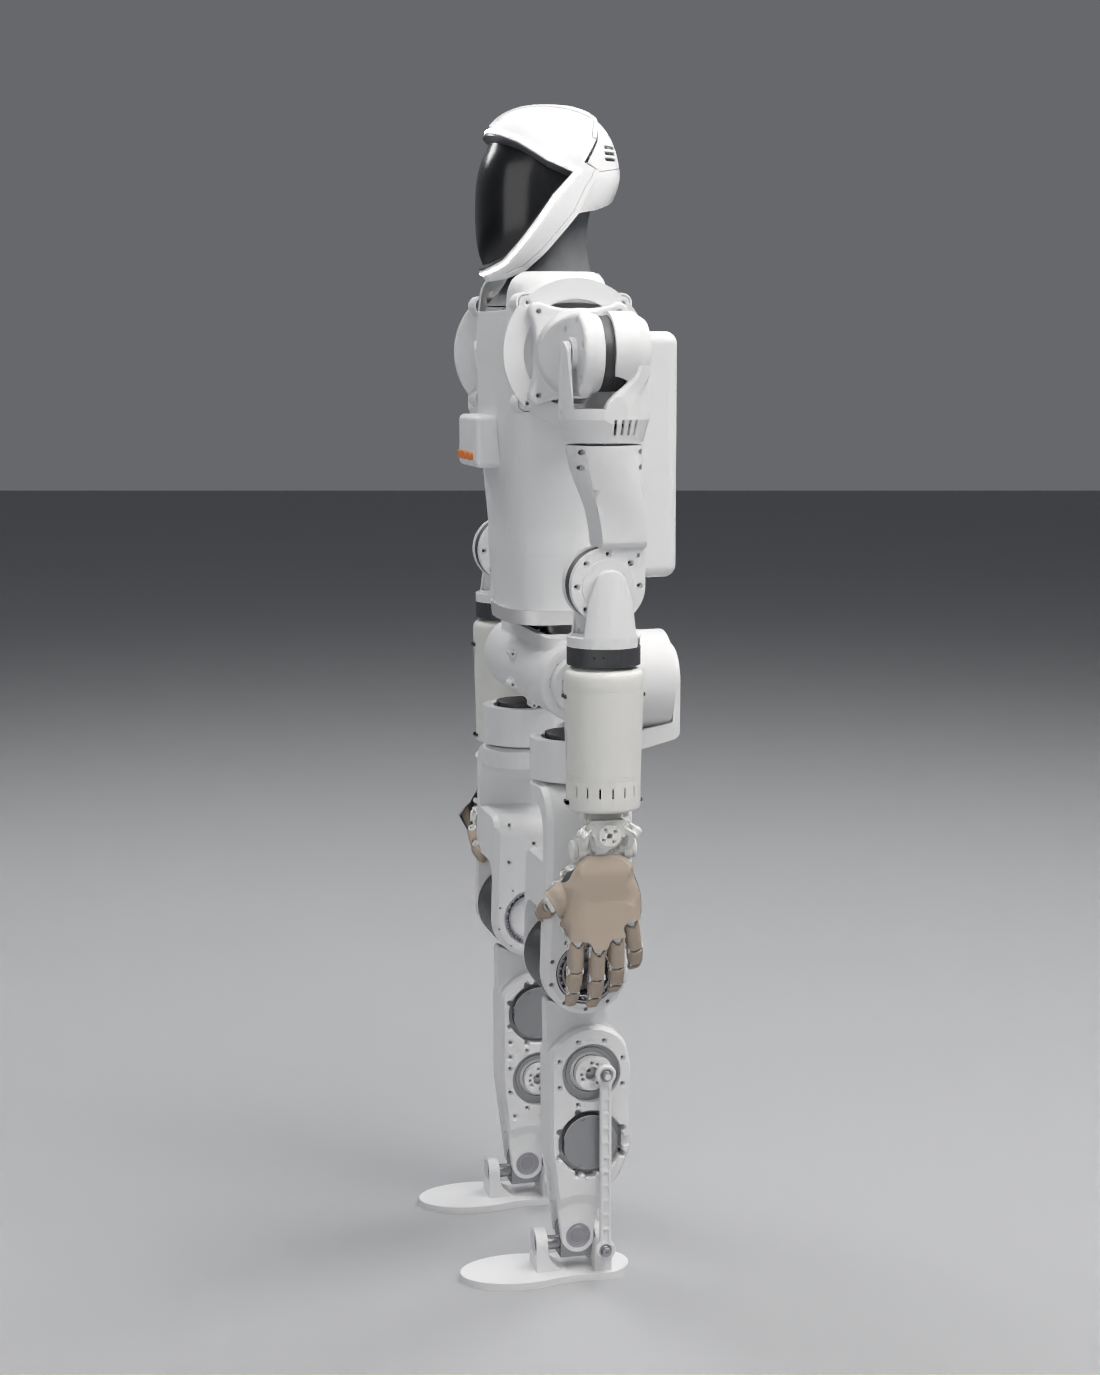
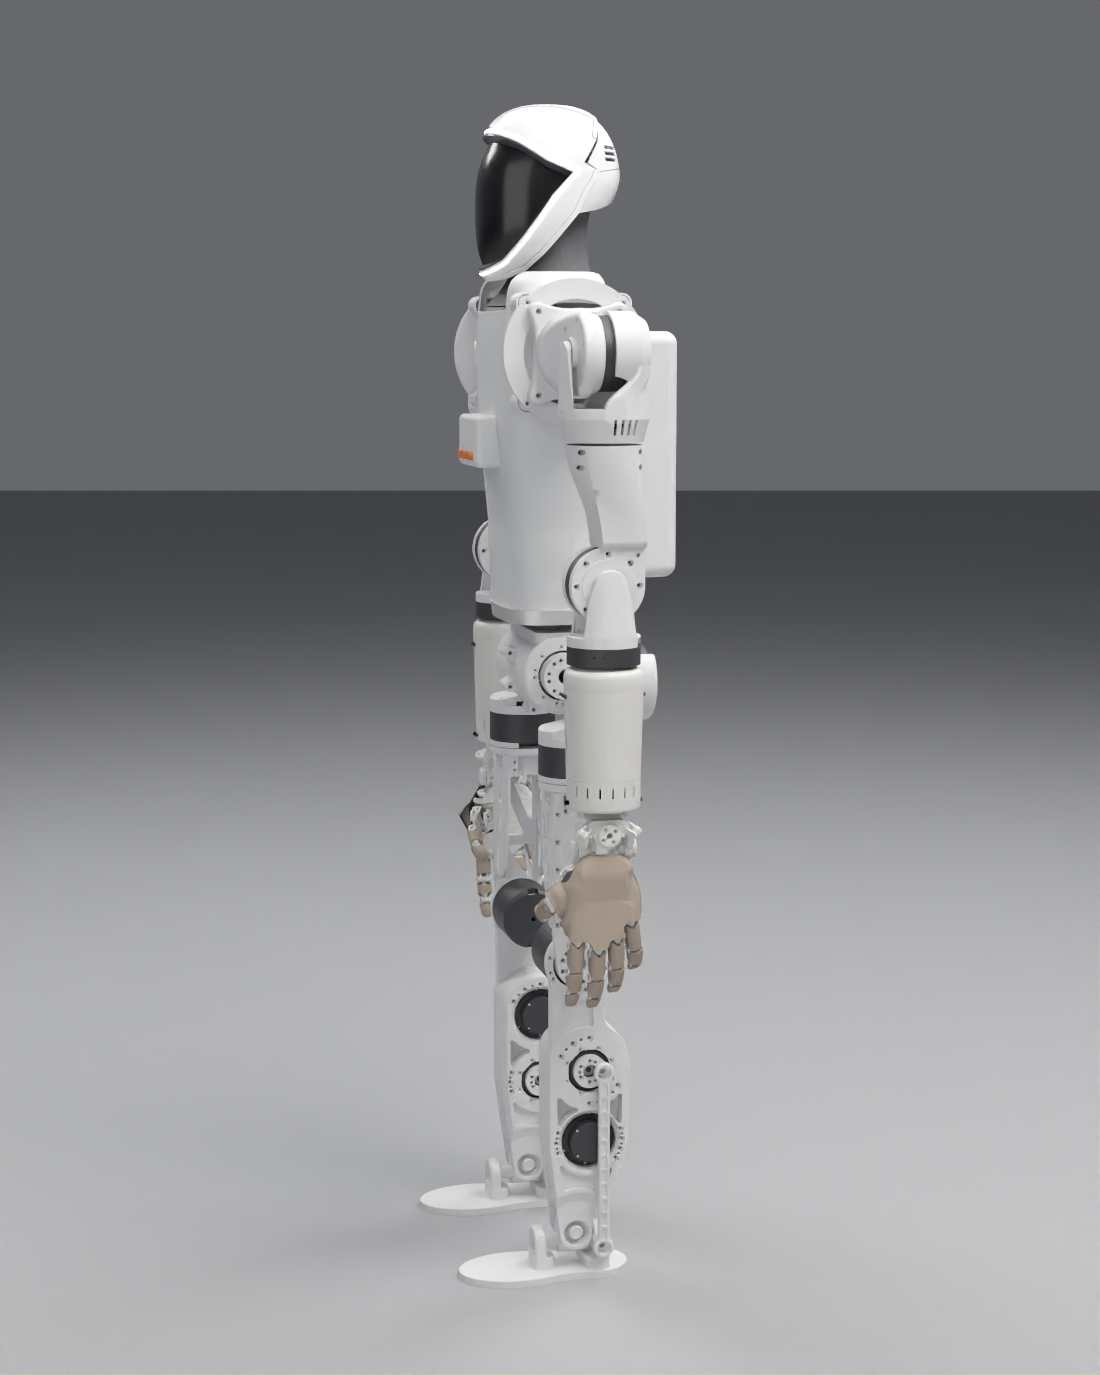
Homepage: add whole-body side and front renders after the first photo

Changed region(s): [[0.4327, 0.4582, 0.5873, 0.8858], [0.5564, 0.4582, 0.6182, 0.5498], [0.4945, 0.8858, 0.5564, 0.9469]]

diff --git a/wato-humanoid-wiki/docs/intro.md b/wato-humanoid-wiki/docs/intro.md
@@ -15,6 +15,10 @@ Our humanoid robot will feature 2 arms + 2 legs and we are also developing a 22 
 
 ![Pioneer robot arm on its stand outside Waterloo Engineering](/img/humanoid/pioneer-arm-outdoor.jpg)
 
+![Pioneer whole-body humanoid render, side view](/img/humanoid/pioneer-whole-body-side.png)
+
+![Pioneer whole-body humanoid render, front three-quarter view](/img/humanoid/pioneer-whole-body-front.png)
+
 ![WATonomous Humanoid dual-arm robot](/img/humanoid/humanoid-hero.png)
 
 <div style={{display: 'grid', gridTemplateColumns: 'repeat(2, 1fr)', gap: '12px'}}>
